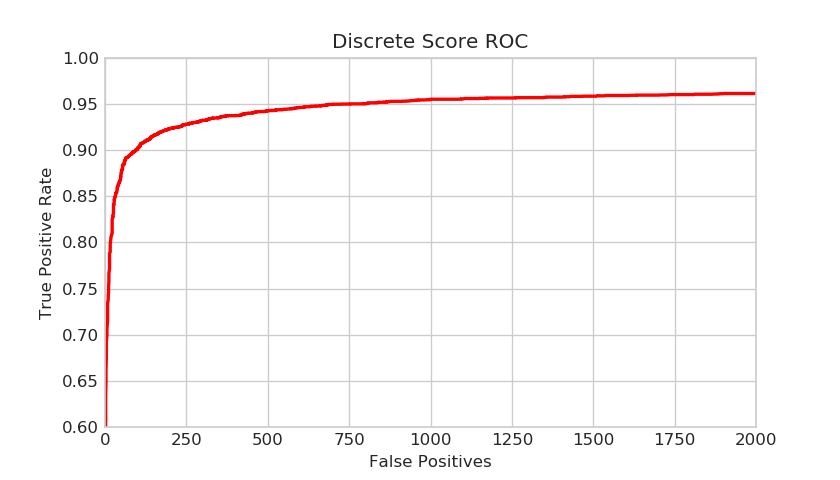
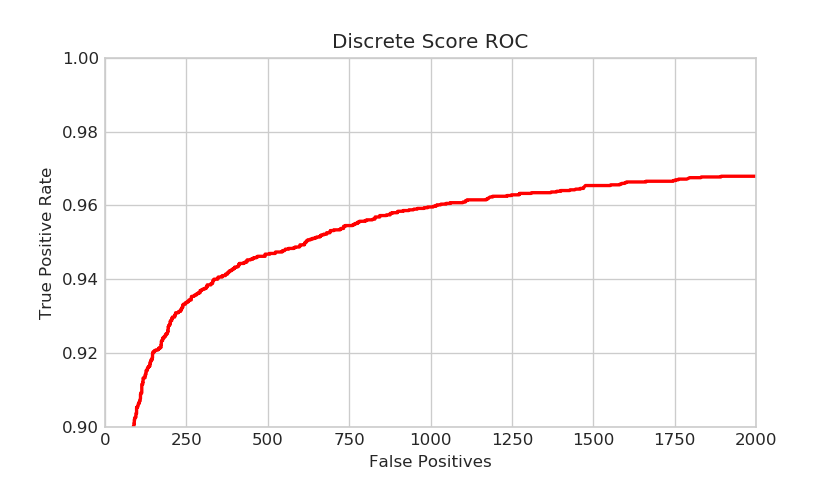
fddb 0.96

diff --git a/vis.py b/vis.py
@@ -1,6 +1,8 @@
 import cv2
 import os
 import time
+import argparse
+
 from lib.core.api.face_detector import FaceDetector
 
 os.environ["CUDA_VISIBLE_DEVICES"] = "0"
@@ -20,9 +22,8 @@ def GetFileList(dir, fileList):
     return fileList
 
 
-def facedetect():
+def image_demo(data_dir):
     count = 0
-    data_dir = 'yourdata'
     pics = []
     GetFileList(data_dir,pics)
 
@@ -37,7 +38,7 @@ def facedetect():
 
         img = cv2.cvtColor(img, cv2.COLOR_BGR2RGB)
         star=time.time()
-        boxes=detector(img,0.3)
+        boxes=detector(img,0.5)
         #print('one iamge cost %f s'%(time.time()-star))
         #print(boxes.shape)
         #print(boxes)
@@ -67,14 +68,8 @@ def facedetect():
         cv2.waitKey(0)
     print(count)
 
-def video_demo():
-    video_path = './test.ts'
-
-    videoWriter = cv2.VideoWriter('tp.avi', cv2.VideoWriter_fourcc("I", "4", "2", "0"), 10, (640, 480))
-    vide_capture = cv2.VideoCapture(video_path)
-    vide_capture.set(3, 1280)
-    vide_capture.set(4, 720)
-
+def video_demo(cam_id):
+    vide_capture = cv2.VideoCapture(cam_id)
 
     while 1:
 
@@ -82,12 +77,8 @@ def video_demo():
         img_show = img.copy()
 
         img = cv2.cvtColor(img, cv2.COLOR_BGR2RGB)
-        star = time.time()
-        boxes, scores = detector(img, 0.9)
-        # print('one iamge cost %f s'%(time.time()-star))
-        # print(boxes.shape)
-        # print(boxes)
-        ################toxml or json
+
+        boxes = detector(img, 0.5)
 
         for box_index in range(boxes.shape[0]):
             bbox = boxes[box_index]
@@ -97,8 +88,24 @@ def video_demo():
 
         cv2.namedWindow('res', 0)
         cv2.imshow('res', img_show)
-        cv2.waitKey(1)
+        key=cv2.waitKey(1)
+
+        if key==ord('q'):
+            break
 
 
 if __name__=='__main__':
-    facedetect()
+    parser = argparse.ArgumentParser(description='Start train.')
+    parser.add_argument('--img_dir', dest='img_dir', type=str,default=None, \
+                        help='the num of the classes (default: 100)')
+    parser.add_argument('--cam_id', dest='cam_id', type=int,default=0, \
+                        help='the camre to use')
+    args = parser.parse_args()
+
+
+
+    if args.img_dir is not None:
+
+        image_demo(args.img_dir)
+    else:
+        video_demo(args.cam_id)

diff --git a/README.md b/README.md
@@ -2,11 +2,27 @@
 
 ## introduction
 
-A tensorflow implement faceboxes, and some changes has been made:
+A tensorflow implement faceboxes, and some changes has been made in RDCL module:
 
-   1. input size is 512 (1024 in the paper), then the first conv stride is 2. 
-   2. anchor based sample is used in data augmentaion.
+   1. input size is 512 (1024 in the paper), then the first conv stride is 2, kernel size 7x7x12.
+   2. replace the two maxpoll by conv 3x3 stride 2
+   3. replace the second 5x5 kernel with two 3x3 kernel
+   4. anchor based sample is used in data augmentaion.
    
+   
+   codes like below
+   ```
+       with tf.name_scope('RDCL'):
+        net = slim.conv2d(net_in, 12, [7, 7], stride=2,activation_fn=tf.nn.relu, scope='init_conv1')
+        net = slim.conv2d(net, 24, [3, 3], stride=2, activation_fn=tf.nn.crelu, scope='init_conv2')
+        #net = tf.nn.max_pool(net, ksize=[1, 3, 3, 1], strides=[1, 2, 2, 1], padding="SAME", name='init_pool')
+
+        net = slim.conv2d(net, 32, [3, 3], stride=2,activation_fn=tf.nn.relu,scope='conv1x1_before1')
+        net = slim.conv2d(net, 64, [3, 3], stride=2, activation_fn=tf.nn.crelu, scope='conv1x1_before2')
+        #net = tf.nn.max_pool(net, ksize=[1, 3, 3, 1], strides=[1, 2, 2, 1], padding="SAME", name='init_pool2')
+        return net
+
+   ```
 **I want to name it faceboxes++ ,if u don't mind**
 
 
@@ -17,16 +33,15 @@ Pretrained model can be download from:
 
 + [google drive](https://drive.google.com/drive/folders/1mV7I9UR_DjF91Wd2P6TqMQhMIOpcBWRJ?usp=sharing)
 
-
 Evaluation result on fddb
 
  ![fddb](https://github.com/610265158/faceboxes-tensorflow/blob/master/figures/Figure_1.png)
 
 | fddb   |
 | :------: | 
-|  0.955 | 
+|  0.960 | 
 
- **Speed: it runs over 55FPS on cpu (i7-8700K), 140fps on gpu (2080ti) with fixed input size 512, tf1.14.**
+ **Speed: it runs over 70FPS on cpu (i7-8700K), 140fps on gpu (2080ti) with fixed input size 512, tf1.14, multi thread.**
  **And i think the input size, the time consume and the performance is very appropriate for application :)**
  
 Hope the codes can help you, and i am struggling with the new tf api, contact me if u have any question,      2120140200@mail.nankai.edu.cn  .
@@ -82,9 +97,12 @@ example `python model_eval/fddb.py --model model/detector.pb
 ### visualization
 ![A demo](https://github.com/610265158/faceboxes-tensorflow/blob/master/figures/example2.png)
 
-If u get a trained model, run `python tools/auto_freeze.py`, it will read the checkpoint file in ./model, and produce detector.pb, then
+1. If u get a trained model, run `python tools/auto_freeze.py`, it will read the checkpoint file in ./model, and produce detector.pb.
 
-`python vis.py`
+2. `python vis.py  --img_dir 'your images dir ,by default it detect pics with .jpg `
+
+3. or use a camera:
+`python vis.py --cam_id 0`
 
 You can check the code in vis.py to make it runable, it's simple.
 ### reference
